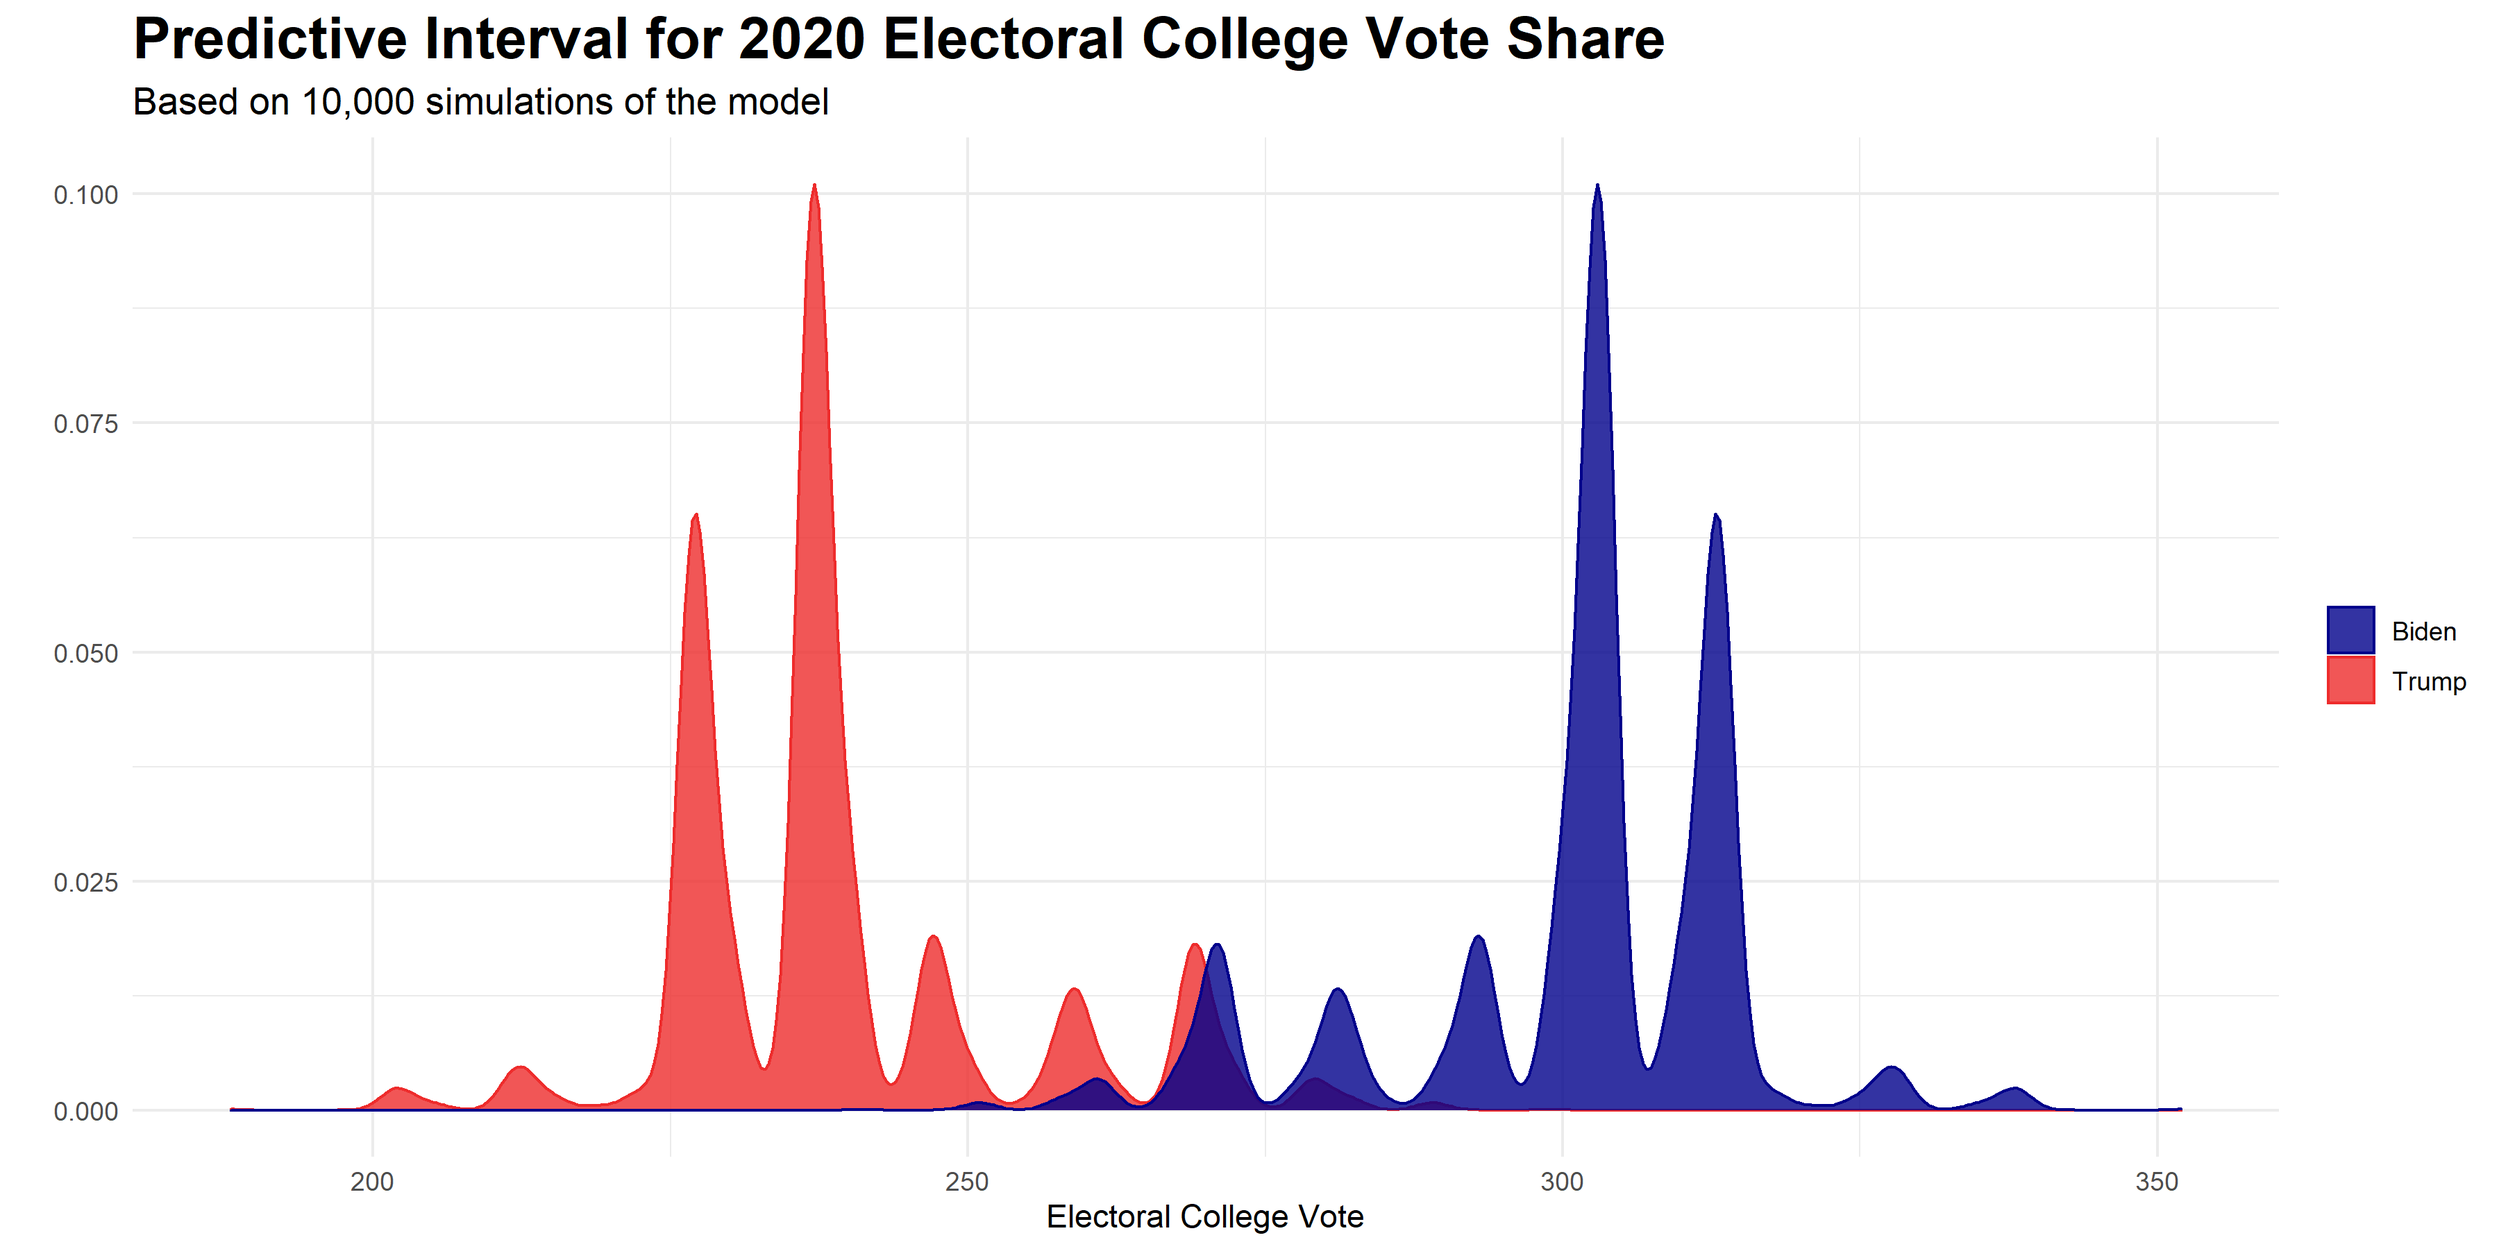
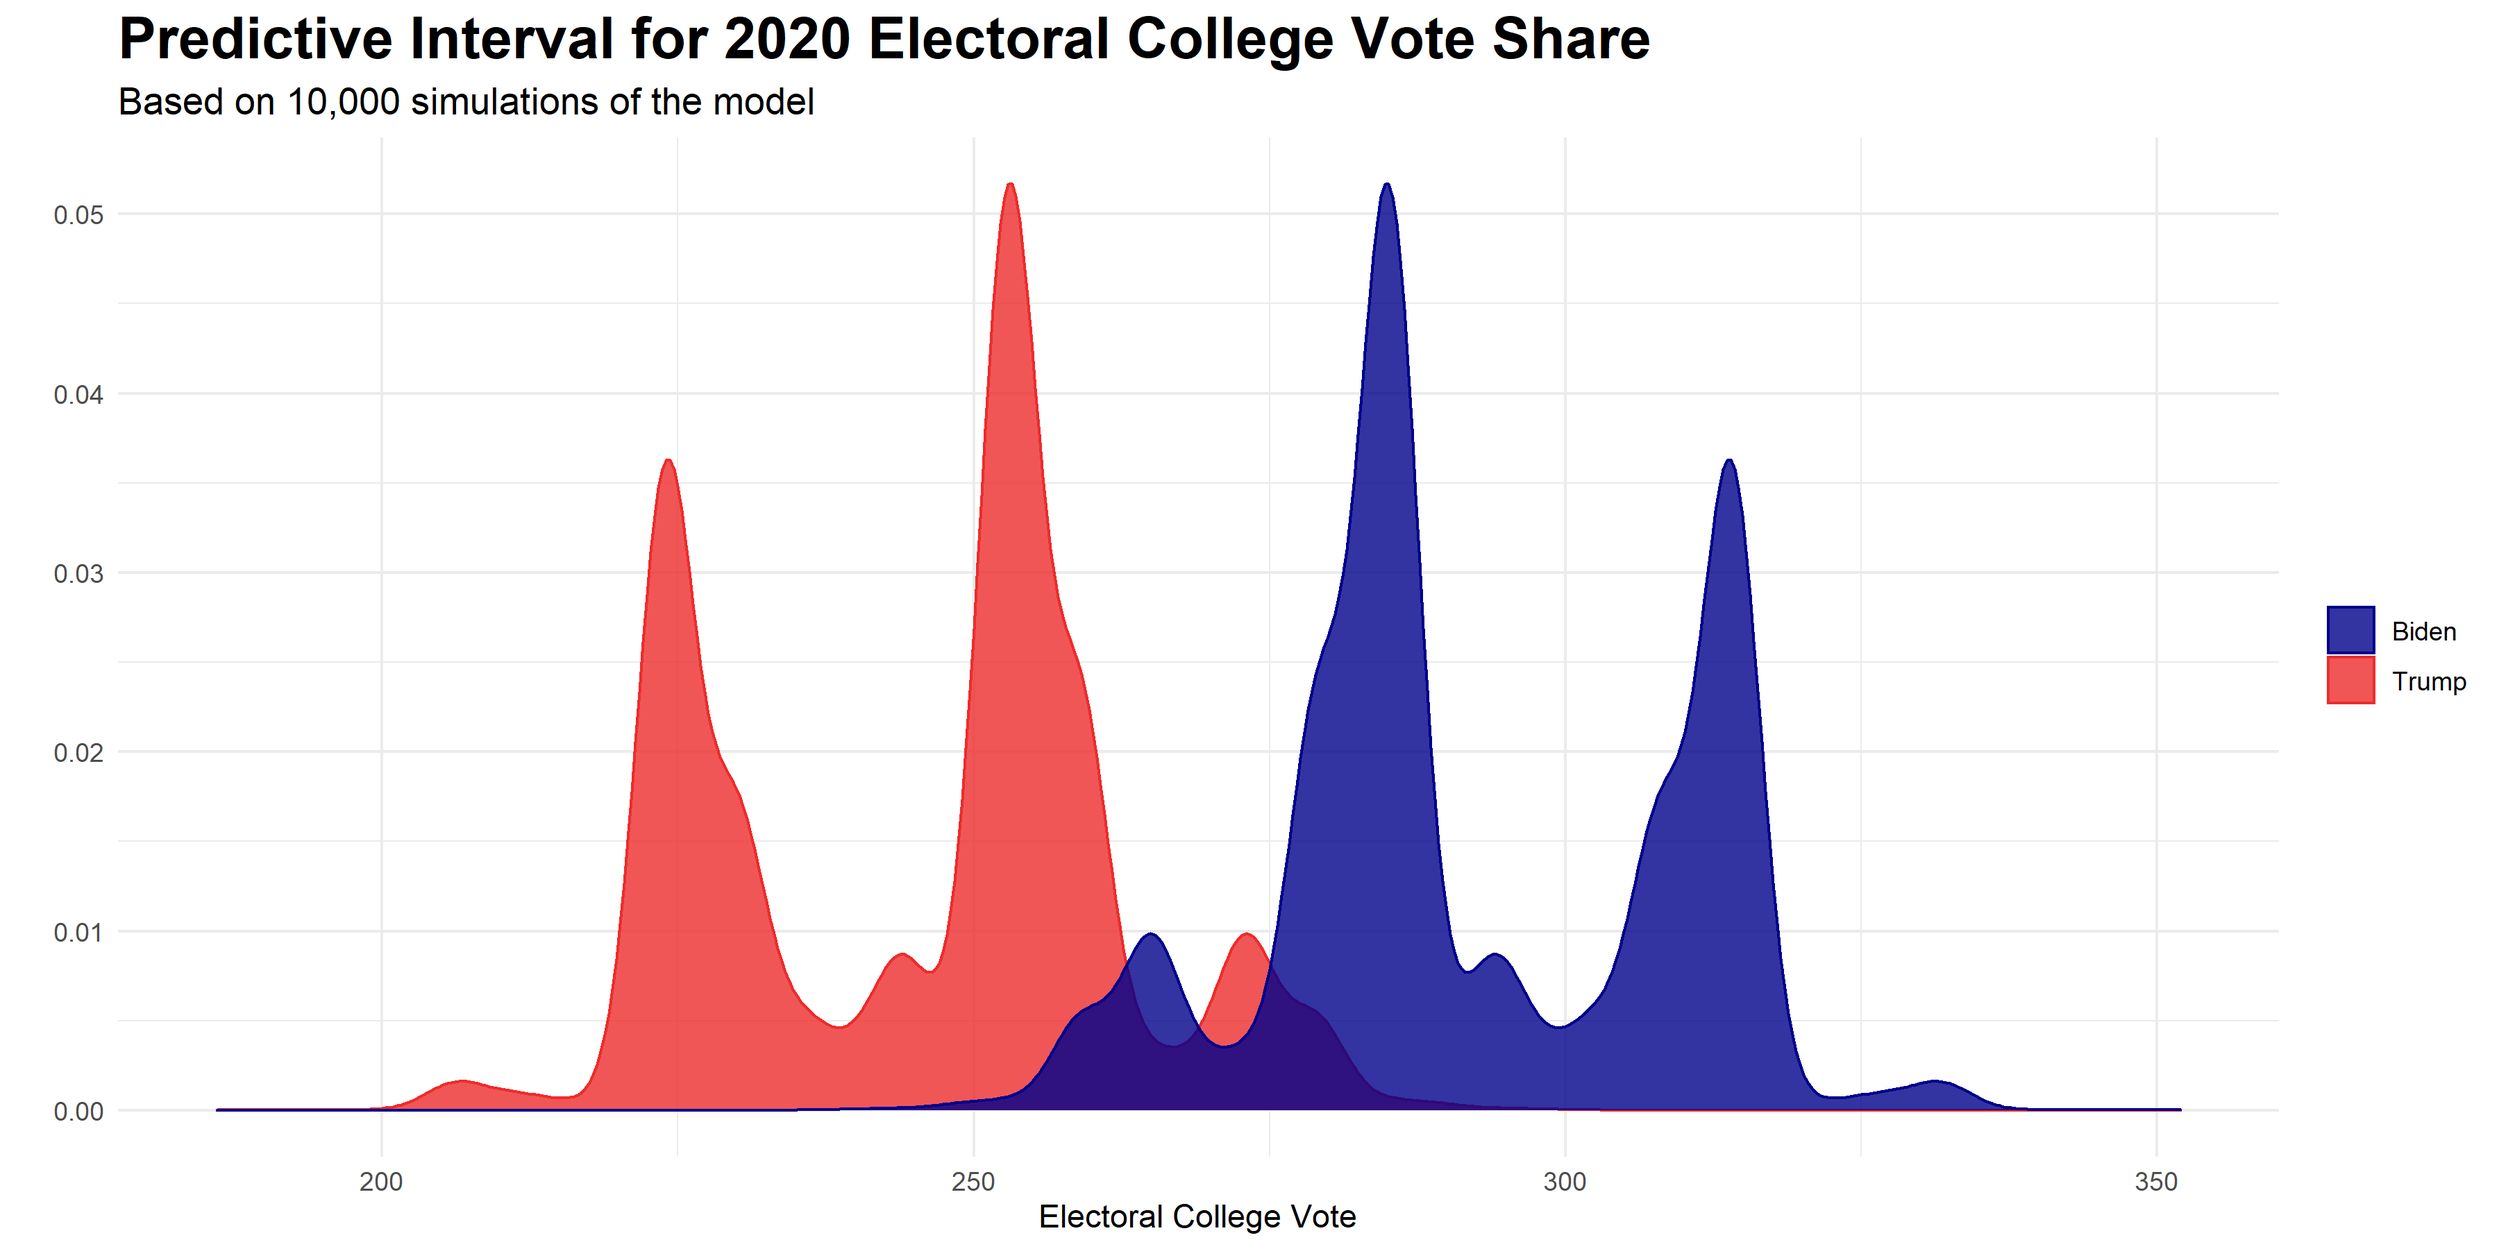
trying to upload final prediction again

diff --git a/posts/08-blog.md b/posts/08-blog.md
@@ -1,14 +1,82 @@
 # Final Prediction- Who Wins?
 ## November 1, 2020
 
+Finally, it's the moment we've all been waiting for! Tuesday, November 3rd, is rapidly approaching, and with it all the work I have done this semester in testing predictive models comes to a close. This week, I explain the process I took towards developing a model for predicting the national popular vote and the Electoral College vote for the 2020 presidential election.
+
+## National Popular Vote Model
+
+To develop a model for predicting the national popular vote, I built six different training models. I tested which models had the highest overall R-squared values while also maintaining a comparatively low root mean square error (RMSE) and a decently high R-squared value following leave-one-out validation. The outputs of the six models can be viewed in the table below:
+
 ![](../figures/npvmodels.png)
+
+I tested a variety of models with a number of different predictors and interactions, as can be seen in the table above. However, ultimately the best model overall proved to be model 4. This model had relatively high R-squared and adjusted R-squared values but also held up well under leave-one-out cross-validation (LOOCV) testing. The RMSE for this model was comparatively not very high and its leave-one-out R-squared value still explained a significant portion of the variance in the data. Because it provided relatively high R-squared and adjusted R-squared values while still maintaining a lower RMSE and a higher LOOCV R-squared value, it appeared that **this model could perform well with both in and out-of-sample testing.**
+
+The formula for the model I settled on for predicting the national popular vote was:
+
+`lm(pv2p ~ avg_support + prev_avg_unemployment + prev_avg_gdp_growth + last_pv2p + incumbent_party*job_approval)`
+
+The predictors I used for my national model were:
+
+1. **Average Poll Support:** I chose to **include all polls from June 2020 forwards.** At this point, it was obvious that both candidates would be the nominees of their respective parties, and other former Democratic candidates had largely coalesced around Joe Biden as the Democratic nominee. I then took the average of all FiveThirtyEight polls from June onwards to create an average national support variable. Though FiveThirtyEight also creates grades for different polls which I could have included as weights, I chose not to include any weights for polls because I did not notice a significant difference in model outputs when polls were weighted and when they were not.
+
+2. **Previous Year's Average Unemployment Rate:** I have explored average unemployment rates as a predictor in a couple of different blogs earlier in the year (see weeks [2](https://eguetzloe.github.io/Election-Analytics-Blog/posts/02-blog.html) and [3](https://eguetzloe.github.io/Election-Analytics-Blog/posts/03-blog.html) for more details on unemployment specifically). While unemployment on its own at first appeared to be a poor predictor, it was actually a strong predictor when combined with other variables such as polling. I wanted to include some type of economic predictor, but I was skeptical of using 2020 economic data due to the havoc wreaked on almost all of 2020's traditional economic indicators by COVID-19. Thus, I decided to look at the **national average unemployment rate for each year before an election year.** This might not be as traditional of an economic predictor, but I reasoned that it might be one of the best ways to include some kind of economic indicator into a 2020 model. It is almost certain that voters are still thinking about economics despite the impact of COVID, but the question of how to include economic data in 2020 is a question which many forecasters are struggling to answer.
+
+3. **Previous Year's Average GDP Growth:** In addition to the national average unemployment rate, I also included the **average GDP growth for the year prior to an election year.** Again, I was concerned about including 2020 economic data so I focused on the years prior to election years. Similar to the last predictor, I took the average rate of GDP growth for every year before a presidential election. GDP growth is a classic election predictor, so I chose to include it in my model.
+
+4. **Last 2-Party Presidential Popular Vote Share:** One of the best ways to predict how people will act in the future is by looking at how they have acted in the past. With this in mind, I added in the **last election's 2-party national popular vote share** as a predictor variable.
+
+5. **Interaction of Incumbent Party With Incumbent Job Approval:** There were two final predictor variables I chose to include in the model. The first was a **dummy variable which noted whether a presidential candidate was a member of the incumbent party or not.** Since candidates from incumbent parties traditionally receive a level of advantage in elections (see my [week 4 blog](https://eguetzloe.github.io/Election-Analytics-Blog/posts/04-blog.html) for more details on this), I thought this variable would be important to include within my model. While incumbent party on its own would certainly be an important variable to include, I thought it was **highly probable that incumbency's total effect is moderated by people's perceptions of the incumbent president's job performance.** If people generally approve of the current president, they will probably be more likely to vote for the candidate from the incumbent party. If the public shows more disapproval of the current president, it is likely that the incumbent party will fare worse in the upcoming election. Thus, I ultimately decided to **interact the incumbent party dummy variable with Gallup poll statistics about job approval of the current president.** I chose to only use Gallup job approval polls from election years and specifically within the months before the election- January through October.
+
+**Importantly, I did not include any variables which specifically accounted for the impact of COVID-19.** Though I explored some possibilities for thinking of COVID within electoral forecasting in [last week's blog](https://eguetzloe.github.io/Election-Analytics-Blog/posts/07-blog.html), there was no easy way to do this which could clearly aid in election prediction. Thus, I chose not to include any data on COVID-19 in my final model.
+
+After choosing the model, I then ran 10,000 different simulations to find the predictive interval for the two-party national popular vote. The graphic below illustrates the results of these simulations.
 
 ![](../figures/npvpredgraph.png)
 
+As can be seen in the plot, **my model predicts Biden gaining about 53% and Trump gaining about 47% of the national popular vote.** Thus, the model forecasts a **solid Biden lead in the popular vote.** It is important to note, however, that there is **still uncertainty within the model's predictions**- while the largest proportions of predicted vote shares centered around the values listed above, there were also many simulations where either the race was tighter or where the race gave Biden an even stronger lead. Thus, I believe the main focus when interpreting the results of this model should simply be that it **predicts a Biden victory in the national popular vote.** 
+
+## State-By-State Electoral College Model
+
+For my second model, I focused on predicting the outcomes of individual states and thus the results of the Electoral College vote. Similar to the process of creating my national popular vote model, I also tested multiple different models with a variety of predictors and interactions before deciding on the best possible model. As I did for the national model, I again assessed the models based mostly on R-squared values, adjusted R-squared values, and RMSE. 
+
+One change for these models, however, was my creation of an "average R-squared value" for all states following the use of leave-one-out cross-validation (LOOCV) testing. After running the models and testing them using LOOCV, the models would output separate R-squared values for every state. Thus, I opted to average all of these state R-squared values for each model to see which model still achieved the highest average R-squared value for all states following LOOCV tests.
+
+In total, I tested 15 different models before settling on one. My final model for predicting state votes and thus the winner of the Electoral College was:
+
+`lm(pv2p ~ avg_support*party + prev_avg_gdp_growth + last_pv2p + job_approval*party)`
+
+Many of the predictors I used for this model were similar to those used in the national model, but for the sake of clarity here is a full explanation of all variables chosen:
+
+1. **Interaction of Average Poll Support with Incumbent Party:** As I did for the national popular vote model, I again used average poll support as one of my predictors. However, this time I aggregated polls by state and then averaged from there, rather than simply taking a national average as I did for the previous model. Thus, it might be better to think of this variable as **average state poll support.** However, for my state model, I ended up **interacting average state poll support with my incumbency dummy variable.** Similar to the interaction used in the national model, I hoped that this interaction would represent the way in which views of the candidate from the incumbent party are affected by public perceptions of the candidates through general polling. However, this interaction focused more on polls about both the candidates rather than on incumbent president's job approval alone.
+
+3. **Previous Year's Average GDP Growth:** To account for voters' economic concerns while still keeping in mind that COVID has significantly impacted traditional economic predictors, I again employed the **average GDP growth from the year prior to an election** as a predictor in my state model.
+
+4. **Last 2-Party Presidential Vote Share By State:** As I did in the national model, I again incorporated a variable accounting for the last presidential election's 2-party vote share. However, since this model was specifically predicting state votes, I used **each state's previous vote share for each party** as a predictor for each state's vote in the upcoming election.
+
+5. **Interaction of Incumbent Party With Incumbent Job Approval:** This interaction was the same as the one used in the national model- **an interaction of the incumbency dummy variable with national job approval ratings from Gallup polls.**
+
+After running this model, I developed the map below. This map shows my model's predictions for which way states will vote in the 2020 presidential election, including a variety of levels to account for the strength of a state's vote for a particular candidate. The levels I created were "Strong Trump", "Likely Trump", "Lean Trump", "Toss-up", "Lean Biden", "Likely Biden", and "Lean Biden." These levels were based on the predicted win margin of candidates in each state.
+
 ![](../figures/ecmapgradient.png)
 
-![](../figures/electorbar1.png)
+There are a number of key takeaways from this model. First, my model predicts that **the biggest toss-up states will be Florida, Iowa, Nevada, and Pennsylvania. Michigan and Ohio are the only states which fall into my "lean" category**, with Michigan being predicted to "lean Biden" and Ohio predicted to "lean Trump." Secondly, there are a few outcomes which might be surprising based on comparisons to other prominent predictive models like [FiveThirtyEight](https://projects.fivethirtyeight.com/2020-election-forecast/) and [the Economist](https://projects.economist.com/us-2020-forecast/president). **Notably, my model does not predict Arizona, Georgia, North Carolina, Texas, or Wisconsin being toss-up or even lean states.** Instead, Arizona, Georgia, North Carolina, and Texas are all categorized as "likely Trump" states, while Wisconsin is predicted to be "likely Biden."
+
+The bar below aggregates the predicted Electoral College vote shares for each of the candidates based on the win margin categories for states.
+
+![](../figures/electorbar.png)
+
+**My model predicts 253 electoral votes going to Biden and 224 electoral votes going to Trump, with 61 electors up for grabs in toss-up states.** But as I discussed earlier with my national popular vote model, we must keep in mind that these results are not the only possibilities for the election's outcome. To better visualize the inherent uncertainty of the model, I again ran 10,000 simulations of my state-level model to predict the expected Electoral College vote share for Biden and Trump. The predictive interval for the model is shown in the graphic below.
 
 ![](../figures/statesimsgraph.png)
 
+**The key takeaway from this graphic is that Biden is clearly favored to win the Electoral College.** Biden's expected Electoral College vote share centers somewhere around the 290 mark, while Trump's Electoral Vote appears to center near 250. However, the simulations also indicate that a stronger Biden victory where Biden accumulates over 300 electoral votes is very possible. The model foresees almost no situations where Biden gains well over 325 electoral votes.
+
+**Importantly, while the model forecasts an Electoral College victory for Biden, it is not impossible for Trump to pull off a win.** Trump won 934 of my 10,000 simulations, meaning he won about 9.3% of the model's simulations. This is not an unsubstantial percentage, and we should not be completely surprised if Trump does manage to win the Electoral College.
+
+But what happens when we remove all "lean" or "toss-up" categorizations and instead make simple predictions based on who will win a higher 2-party vote percentage in each state? The results of my state model's final predictions can be observed in the "no-lean" map below.
+
 ![](../figures/noleanmap.png)
+
+The main observation from this map is that **Biden is predicted to win 3 out of my 4 toss-up states- namely, Iowa, Nevada, and Pennsylvania.** My model predicts that Florida will be especially close, with Trump barely winning the state by under half a percentage point. If my model is correct, **Biden will pull off a relatively narrow victory in the Electoral College, ultimately gaining 285 electors to pass the 270 margin by 15 votes.** This is a **much smaller margin of victory for Biden than many major analysts have predicted.** But having said that, few analysts in 2016 predicted how tight the race between Trump and Clinton would be, so it will be interesting to find out whether pollsters again underestimated levels of support for Trump in this election.
+
+It is unclear whether we will know the winner of the 2020 presidential election by this Tuesday night. With [greater numbers of mail-in ballots than ever before and predictions of high voter turnout](https://www.nytimes.com/interactive/2020/us/elections/early-voting-results.html), it may take days or even weeks before we are completely certain about the outcome of this election. Excluding the possibility of a blowout for one candidate for the other- which my model does not predict- it will likely take time for full election results to roll in. However, **I predict that once all is said and done in this election, Biden will win both the popular vote and the Electoral College, making him the next president of the United States.**
